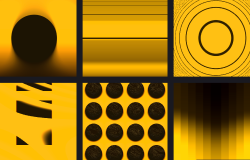
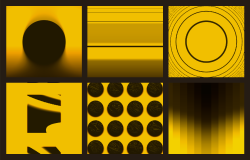
sketch 003

diff --git a/pages/sketch/3/+client.js b/pages/sketch/3/+client.js
@@ -1,0 +1,19 @@
+import GlslCanvas from "glslCanvas";
+import "#root/analytics.client";
+import { done } from "#root/services/loader";
+import shader from './shaders/shader_0.frag';
+
+(function () {
+
+    const grid = document.getElementById('grid')
+    const el = document.createElement('canvas')
+    el.style.width = '100%'
+    const sandbox = new GlslCanvas(el)
+    sandbox.on('load', () => {
+        done()
+    });
+    sandbox.load(shader)
+    grid.appendChild(el)
+
+})();
+

diff --git a/pages/sketch/3/style.scss b/pages/sketch/3/style.scss
@@ -1,0 +1,25 @@
+@import "#root/style/vars.css";
+@import "#root/style/mediaq.scss";
+
+main {
+  display: flex;
+  height: var(--view);
+}
+
+#grid {
+  display: grid;
+  padding: 5vw;
+  box-sizing: border-box;
+  align-items: center;
+  justify-content: center;
+  width: 100%;
+  
+  @include only-desktop {
+    padding: 2.4vw;
+  }
+}
+
+#grid canvas {
+  max-width: 100%;
+  aspect-ratio: 1;
+}

diff --git a/pages/sketch/3/+Page.js b/pages/sketch/3/+Page.js
@@ -1,0 +1,7 @@
+import "./style.scss";
+
+export { Page };
+
+function Page() {
+  return `<section id="grid"></section>`;
+}

diff --git a/pages/sketch/3/+description.ts b/pages/sketch/3/+description.ts
@@ -1,0 +1,1 @@
+export default "Genuary 2025 day 22. Gradients only."

diff --git a/pages/sketch/3/+loader.ts b/pages/sketch/3/+loader.ts
@@ -1,0 +1,1 @@
+export default true;
